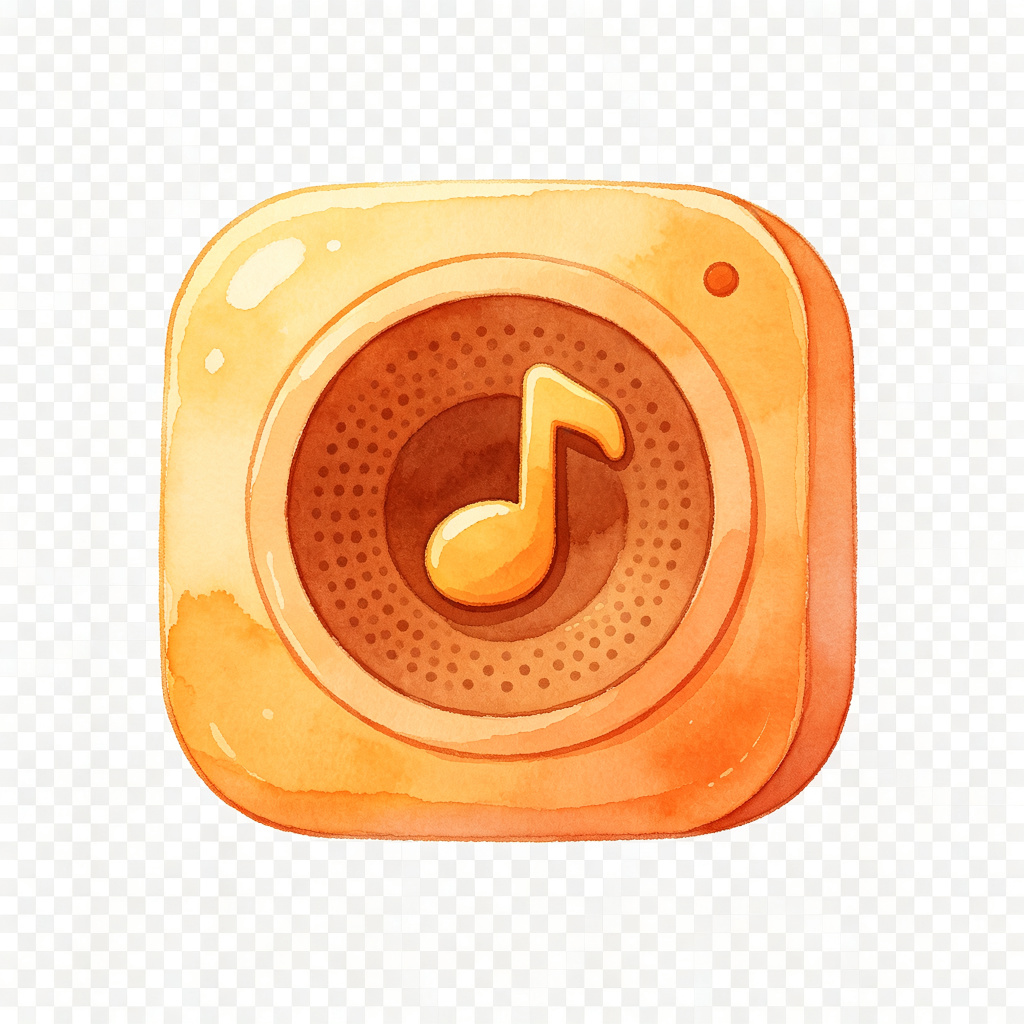
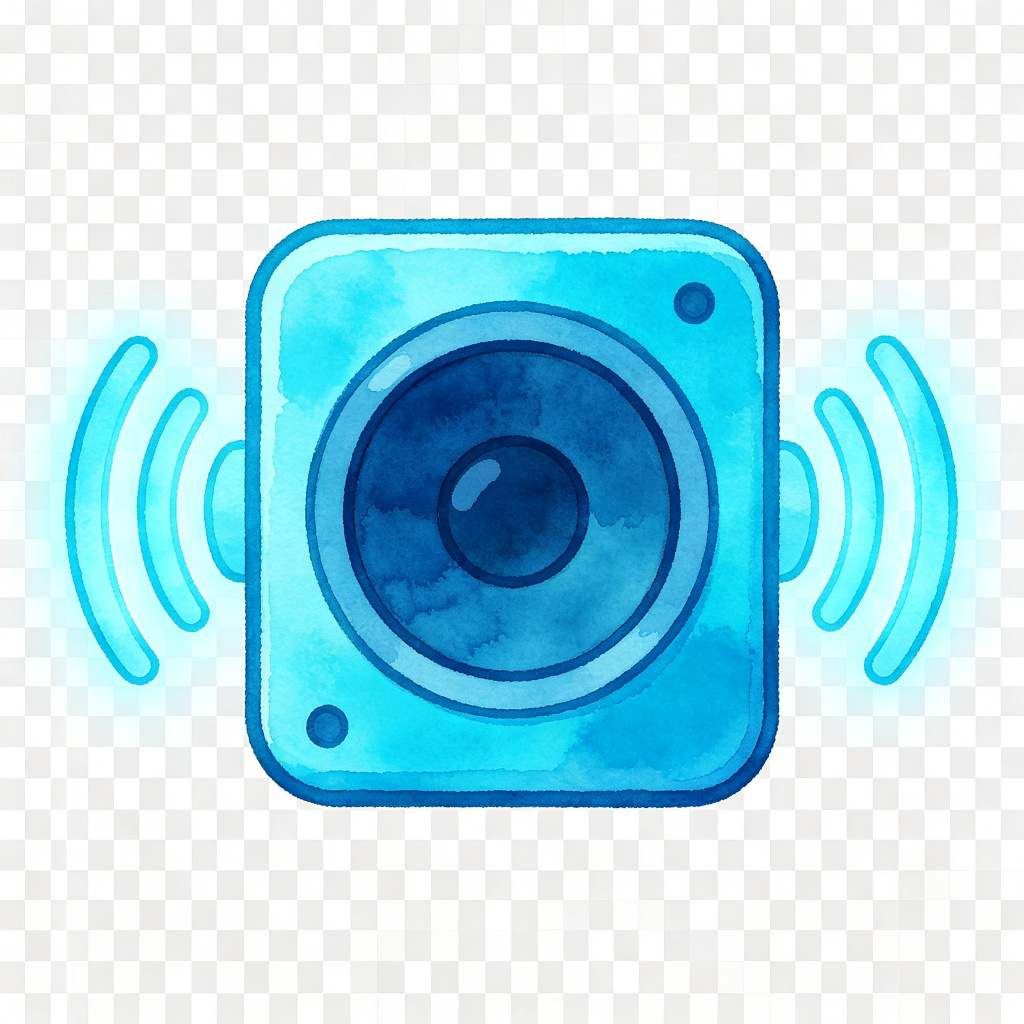
飞行模式重写/热气球位置/声音图标/湖泊液态光效
- 重写休闲模式飞行：切换式悬浮，按一次升空固定高度只能左右移动，再按一次落地，飞行中不加分，F键快捷键
- 修复入坑/专家模式热气球太高够不着：HookedMode y>=340, ExpertMode y>=600
- 重新生成更鲜明的声音按钮图标：亮青色扬声器+两侧音波符号
- 重设计湖泊为液态流体脉冲光效：四层渐变水体、脉冲发光边缘、三层波纹、波光闪烁、水下光柱、上升气泡、水底柔光
- 审视素材：核心素材均已使用最新版
- 版本号更新至 20260828l

diff --git a/dino.js b/dino.js
@@ -7,7 +7,7 @@
 
 /* ─── Constants ─── */
 const W = 1600, H = 900;
-const DINO_URL = 'images/小恐龙-removebg-preview.png?v=20260828c';
+const DINO_URL = 'images/小恐龙-removebg-preview.png?v=20260828l';
 const BGM_URL = 'bgm/white-cat.mp3';
 const GROUND_Y = 820;
 const GRAVITY = 0.5;
@@ -247,6 +247,7 @@ function onKeyDown(e) {
   if (e.code === 'ArrowUp' || e.code === 'KeyW') { moveY = -1; if (handler && handler.onJump) handler.onJump(); }
   if (e.code === 'ArrowDown' || e.code === 'KeyS') moveY = 1;
   if (e.code === 'Space' && handler && handler.onJump) { e.preventDefault(); handler.onJump(); }
+  if (e.code === 'KeyF' && gameState === 'playing' && mode === 'casual' && handler && handler.activateFlight) { handler.activateFlight(); }
   if (e.code === 'Escape' && gameState === 'playing') pauseGame();
   else if (e.code === 'Escape' && gameState === 'paused') resumeGame();
 }
@@ -992,6 +993,99 @@ function applyShake() {
   }
 }
 
+/* ─── 液态流体脉冲光效湖泊 ─── */
+function drawPond(x, y, w, h, frame) {
+  ctx.save();
+  // 脉冲因子：周期性亮度变化
+  const pulse = 0.82 + 0.18 * Math.sin(frame * 0.035);
+
+  // 1. 水体主体（四层渐变，液态深邃感）
+  const waterGrad = ctx.createLinearGradient(0, y, 0, y + h);
+  waterGrad.addColorStop(0, `rgba(130, 210, 255, ${0.78 * pulse})`);
+  waterGrad.addColorStop(0.25, `rgba(70, 170, 235, ${0.82 * pulse})`);
+  waterGrad.addColorStop(0.6, `rgba(35, 120, 205, ${0.88 * pulse})`);
+  waterGrad.addColorStop(1, `rgba(18, 75, 155, ${0.92 * pulse})`);
+  ctx.fillStyle = waterGrad;
+  ctx.fillRect(x, y, w, h);
+
+  // 2. 水面脉冲发光边缘（光晕）
+  const glowGrad = ctx.createLinearGradient(0, y - 10, 0, y + 14);
+  glowGrad.addColorStop(0, 'rgba(160, 230, 255, 0)');
+  glowGrad.addColorStop(0.5, `rgba(160, 230, 255, ${0.45 * pulse})`);
+  glowGrad.addColorStop(1, 'rgba(160, 230, 255, 0)');
+  ctx.fillStyle = glowGrad;
+  ctx.fillRect(x - 4, y - 10, w + 8, 24);
+
+  // 3. 三层波纹（不同频率/振幅/速度，液态流体感）
+  for (let layer = 0; layer < 3; layer++) {
+    const amp = 1.8 + layer * 1.4;
+    const freq = 0.035 + layer * 0.018;
+    const speed = 1.8 + layer * 0.7;
+    const alpha = 0.55 - layer * 0.14;
+    ctx.strokeStyle = `rgba(255, 255, 255, ${alpha * pulse})`;
+    ctx.lineWidth = 1.5;
+    ctx.beginPath();
+    for (let wx = x; wx <= x + w; wx += 3) {
+      const wy = y + 2 + layer * 4 + Math.sin((wx + frame * speed) * freq) * amp;
+      if (wx === x) ctx.moveTo(wx, wy);
+      else ctx.lineTo(wx, wy);
+    }
+    ctx.stroke();
+  }
+
+  // 4. 波光粼粼高光闪烁（确定性伪随机）
+  const sparkleCount = Math.floor(w / 28);
+  for (let i = 0; i < sparkleCount; i++) {
+    const sx = x + 8 + ((i * 53 + frame * 0.4) % (w - 16));
+    const sy = y + 5 + ((i * 29) % 18);
+    const twinkle = 0.5 + 0.5 * Math.sin(frame * 0.12 + i * 1.9);
+    ctx.fillStyle = `rgba(255, 255, 255, ${0.65 * twinkle * pulse})`;
+    ctx.beginPath();
+    ctx.ellipse(sx, sy, 2.5 + twinkle * 2, 0.8, 0, 0, Math.PI * 2);
+    ctx.fill();
+  }
+
+  // 5. 水下脉冲光柱（三道，缓慢摆动）
+  for (let i = 0; i < 3; i++) {
+    const lx = x + w * (0.18 + i * 0.32) + Math.sin(frame * 0.018 + i * 1.2) * 25;
+    const beamGrad = ctx.createLinearGradient(lx, y, lx, y + h);
+    beamGrad.addColorStop(0, `rgba(190, 235, 255, ${0.18 * pulse})`);
+    beamGrad.addColorStop(0.6, `rgba(190, 235, 255, ${0.06 * pulse})`);
+    beamGrad.addColorStop(1, 'rgba(190, 235, 255, 0)');
+    ctx.fillStyle = beamGrad;
+    ctx.beginPath();
+    ctx.moveTo(lx - 18, y);
+    ctx.lineTo(lx + 18, y);
+    ctx.lineTo(lx + 45, y + h);
+    ctx.lineTo(lx - 45, y + h);
+    ctx.closePath();
+    ctx.fill();
+  }
+
+  // 6. 上升气泡（确定性循环）
+  for (let i = 0; i < 6; i++) {
+    const bx = x + 12 + ((i * 71 + frame * 0.25) % (w - 24));
+    const by = y + h - ((frame * 0.7 + i * 35) % h);
+    const br = 1.2 + (i % 3) * 0.8;
+    ctx.fillStyle = `rgba(210, 245, 255, ${0.45 * pulse})`;
+    ctx.beginPath();
+    ctx.arc(bx, by, br, 0, Math.PI * 2);
+    ctx.fill();
+    ctx.strokeStyle = `rgba(255, 255, 255, ${0.65 * pulse})`;
+    ctx.lineWidth = 0.6;
+    ctx.stroke();
+  }
+
+  // 7. 水底柔光反射
+  const bottomGlow = ctx.createRadialGradient(x + w / 2, y + h, 5, x + w / 2, y + h, w * 0.6);
+  bottomGlow.addColorStop(0, `rgba(100, 180, 255, ${0.15 * pulse})`);
+  bottomGlow.addColorStop(1, 'rgba(100, 180, 255, 0)');
+  ctx.fillStyle = bottomGlow;
+  ctx.fillRect(x, y + h * 0.5, w, h * 0.5);
+
+  ctx.restore();
+}
+
 /* ─── Shared clouds — 柔和棉花糖云 ─── */
 function drawClouds(offset, alpha) {
   ctx.save();
@@ -1475,7 +1569,7 @@ const CasualMode = {
     this.obstacles = []; this.tomatoes = [];
     this.speed = this.baseSpeed = 4;
     this.spawnTimer = 90; this.tomTimer = 200; this.frame = 0;
-    this.flying = false; this.flyTimer = 0; this.flyCD = 0;
+    this.flying = false; this.flyTargetY = 180;
     this.cameraX = 0; this.gameOver = false; this.won = false;
     this.vx = 0; this.jumpHeld = false;
     score = 0; resetShields();
@@ -1498,13 +1592,24 @@ const CasualMode = {
   onJumpRelease() { this.jumpHeld = false; },
 
   activateFlight() {
-    if (this.flyCD > 0 || this.flying || this.gameOver) return;
-    this.flying = true; this.flyTimer = 300; this.flyCD = 480;
-    this.dino.jumping = false; this.dino.vy = 0;
-    // 视觉反馈：飞行激活粒子效果
-    spawnParticles(this.dino.x + this.dino.w / 2, this.dino.y + this.dino.h / 2, '#1989fa', 15);
-    spawnPopup(this.dino.x + this.dino.w / 2, this.dino.y - 10, t('flight'), '#1989fa');
-    playSfx('coin');
+    if (this.gameOver) return;
+    if (this.flying) {
+      // 取消飞行：掉到地面
+      this.flying = false;
+      this.dino.jumping = true;
+      this.dino.vy = 3;
+      spawnParticles(this.dino.x + this.dino.w / 2, this.dino.y + this.dino.h / 2, '#1989fa', 10);
+      playSfx('coin');
+    } else {
+      // 进入飞行：升到固定高度悬浮，只能左右移动
+      this.flying = true;
+      this.dino.jumping = false;
+      this.dino.vy = 0;
+      this.flyTargetY = 180; // 悬浮在上空的目标高度
+      spawnParticles(this.dino.x + this.dino.w / 2, this.dino.y + this.dino.h / 2, '#1989fa', 18);
+      spawnPopup(this.dino.x + this.dino.w / 2, this.dino.y - 10, t('flight'), '#1989fa');
+      playSfx('coin');
+    }
   },
 
   spawnObstacle() {
@@ -1529,13 +1634,16 @@ const CasualMode = {
     this.speed = this.baseSpeed + this.frame * 0.0008;
     this.bgOffset = (this.bgOffset + this.speed) % 1600;
 
-    // Flight
+    // Flight — 切换式悬浮：固定在上空，只能左右移动，再按一次落地
     if (this.flying) {
-      this.flyTimer--;
-      if (moveY === -1 || keys['ArrowUp'] || keys['KeyW']) this.dino.y -= 5;
-      if (moveY === 1 || keys['ArrowDown'] || keys['KeyS']) this.dino.y += 5;
-      this.dino.y = Math.max(100, Math.min(GROUND_Y - this.dino.h, this.dino.y));
-      if (this.flyTimer <= 0) { this.flying = false; this.dino.jumping = true; this.dino.vy = -5; }
+      // 平滑升到悬浮目标高度
+      const targetY = this.flyTargetY || 180;
+      this.dino.y += (targetY - this.dino.y) * 0.12;
+      if (Math.abs(this.dino.y - targetY) < 0.5) this.dino.y = targetY;
+      this.dino.vy = 0;
+      this.dino.jumping = false;
+      // 悬浮时轻微上下浮动效果
+      this.dino.y += Math.sin(this.frame * 0.06) * 1.5;
     } else {
       // Variable jump gravity (Mario-style): lower gravity while ascending and holding jump
       // 调低重力增强滞空感，按住跳跃键时上升更轻盈
@@ -1549,8 +1657,10 @@ const CasualMode = {
         this.dino.vy = 0; this.dino.jumping = false;
       }
     }
-    if (this.flyCD > 0) this.flyCD--;
-    flightBtn.style.opacity = this.flyCD > 0 ? '0.4' : '1';
+    // 飞行按钮状态反馈：飞行中高亮
+    flightBtn.style.opacity = this.flying ? '1' : '0.85';
+    flightBtn.style.transform = this.flying ? 'scale(1.15)' : 'scale(1)';
+    flightBtn.style.boxShadow = this.flying ? '0 0 16px rgba(25,137,250,0.6)' : 'none';
 
     // Smooth horizontal movement (acceleration/deceleration)
     const targetVx = moveX * 5;
@@ -1584,7 +1694,7 @@ const CasualMode = {
       const oBox = { x: o.x + 8, y: o.y + 4, w: o.w - 16, h: o.h - 8 };
       if (!o.passed && o.x + o.w < this.dino.x) {
         o.passed = true;
-        if (o.type === 'hedgehog') {
+        if (o.type === 'hedgehog' && !this.flying) {
           score++; scoreCurrent.textContent = score;
           spawnPopup(o.x + o.w / 2, o.y - 10, t('score_pop'), '#07c160');
           spawnParticles(o.x + o.w / 2, o.y + o.h / 2, '#07c160', 6);
@@ -1919,7 +2029,7 @@ const HookedMode = {
     this.enemies = L[4].map(e => ({ x: e[0], y: GROUND_Y - (e[0] === 'koopa' ? 56 : 54), type: e[1], w: e[1] === 'koopa' ? 60 : 56, h: e[1] === 'koopa' ? 56 : 54, range: e[2], startX: e[0], dir: 1, frame: 0 })).filter(e => e.startX > 400);
     this.bats = L[5].map(b => ({ x: b[0], y: b[1], w: 72, h: 54, range: b[2], startX: b[0], dir: 1, frame: 0 })).filter(b => b.startX > 400);
     this.tomatoes = L[6].map(t => ({ x: t[0], y: t[1], size: 50, collected: false, frame: 0 }));
-    this.balloon = { x: L[7][0], y: L[7][1] };
+    this.balloon = { x: L[7][0], y: Math.max(340, L[7][1]) };
     this.blocks = (L[8] || []).map(b => ({ x: b[0], y: b[1], type: b[2], count: b[3] || 1, size: 48, used: false, hitFrame: 0 }));
     this.ponds = (L[9] || []).map(p => ({ x: p[0], w: p[1], y: GROUND_Y - 8 }));
     // Piranha plants from pipes
@@ -2140,24 +2250,8 @@ const HookedMode = {
       ctx.fill();
     }
 
-    // Ponds (water)
-    this.ponds.forEach(p => {
-      const wg = ctx.createLinearGradient(0, p.y, 0, GROUND_Y + 40);
-      wg.addColorStop(0, 'rgba(100, 181, 246, 0.7)');
-      wg.addColorStop(1, 'rgba(30, 136, 229, 0.8)');
-      ctx.fillStyle = wg;
-      ctx.fillRect(p.x - cam, p.y, p.w, GROUND_Y + 40 - p.y);
-      // Water surface ripple
-      ctx.strokeStyle = 'rgba(255,255,255,0.4)';
-      ctx.lineWidth = 2;
-      ctx.beginPath();
-      for (let wx = p.x; wx < p.x + p.w; wx += 8) {
-        const wy = p.y + Math.sin((wx + this.frame * 2) * 0.05) * 2;
-        if (wx === p.x) ctx.moveTo(wx - cam, wy);
-        else ctx.lineTo(wx - cam, wy);
-      }
-      ctx.stroke();
-    });
+    // Ponds (液态流体脉冲光效)
+    this.ponds.forEach(p => drawPond(p.x - cam, p.y, p.w, GROUND_Y + 40 - p.y, this.frame));
 
     // Ground (varied height)
     this.ground.forEach(g => drawGrassPlatform(g.x - cam, g.y, g.w, GROUND_Y + 60 - g.y));
@@ -2238,7 +2332,7 @@ const ExpertMode = {
     this.enemies = L[3].map(e => ({ x: e[0], y: e[1], type: e[2], w: e[2] === 'koopa' ? 56 : 52, h: e[2] === 'koopa' ? 52 : 50, range: e[3], startX: e[0], dir: 1, frame: 0, layerY: e[1] })).filter(e => e.startX > 400);
     this.bats = L[4].map(b => ({ x: b[0], y: b[1], w: 68, h: 50, range: b[2], startX: b[0], dir: 1, frame: 0 })).filter(b => b.startX > 400);
     this.tomatoes = L[5].map(t => ({ x: t[0], y: t[1], size: 46, collected: false, frame: 0 }));
-    this.balloon = { x: L[6][0], y: L[6][1] };
+    this.balloon = { x: L[6][0], y: Math.max(600, L[6][1]) };
     this.blocks = (L[7] || []).map(b => ({ x: b[0], y: b[1], type: b[2], count: b[3] || 1, size: 44, used: false, hitFrame: 0 }));
     this.elevators = (L[8] || []).map(e => ({ x: e[0], y: e[1], y0: e[1], y1: e[2], w: e[3], h: 14, state: 'idle', timer: 0 }));
     this.piranhas = this.pipes.filter(p => p.hasPiranha).map(p => ({ x: p.x, y: p.y, w: 50, h: 70, emerge: 0, frame: 0 }));
@@ -3098,18 +3192,18 @@ function init() {
   let loadDone = false;
   const allImgs = [
     { img: dinoImg, url: DINO_URL },
-    { img: hedgehogImg, url: 'images/刺猬-removebg-preview.png?v=20260828c' },
-    { img: batImg, url: 'images/bat.png?v=20260828c' },
-    { img: tomatoImg, url: 'images/tomato.png?v=20260828c' },
-    { img: balloonImg, url: 'images/balloon.png?v=20260828c' },
-    { img: platformImg, url: 'images/platform.png?v=20260828c' },
-    { img: portalImg, url: 'images/portal.png?v=20260828c' },
-    { img: islandImg, url: 'images/island.png?v=20260828c' },
-    { img: piranhaImg, url: 'images/piranha.png?v=20260828c' },
-    { img: koopaImg, url: 'images/koopa.png?v=20260828c' },
-    { img: hedgehogNewImg, url: 'images/hedgehog_new.png?v=20260828c' },
-    { img: bgStartImg, url: 'images/bg_start.png?v=20260828c' },
-    { img: bgCasualImg, url: 'images/bg_casual.png?v=20260828c' },
+    { img: hedgehogImg, url: 'images/刺猬-removebg-preview.png?v=20260828l' },
+    { img: batImg, url: 'images/bat.png?v=20260828l' },
+    { img: tomatoImg, url: 'images/tomato.png?v=20260828l' },
+    { img: balloonImg, url: 'images/balloon.png?v=20260828l' },
+    { img: platformImg, url: 'images/platform.png?v=20260828l' },
+    { img: portalImg, url: 'images/portal.png?v=20260828l' },
+    { img: islandImg, url: 'images/island.png?v=20260828l' },
+    { img: piranhaImg, url: 'images/piranha.png?v=20260828l' },
+    { img: koopaImg, url: 'images/koopa.png?v=20260828l' },
+    { img: hedgehogNewImg, url: 'images/hedgehog_new.png?v=20260828l' },
+    { img: bgStartImg, url: 'images/bg_start.png?v=20260828l' },
+    { img: bgCasualImg, url: 'images/bg_casual.png?v=20260828l' },
   ];
 
   let loaded = 0;

diff --git a/index.html b/index.html
@@ -9,7 +9,7 @@
   <link rel="preconnect" href="https://fonts.googleapis.com">
   <link rel="preconnect" href="https://fonts.gstatic.com" crossorigin>
   <link href="https://fonts.googleapis.com/css2?family=ZCOOL+KuaiLe&family=Fredoka:wght@400;500;600;700&display=swap" rel="stylesheet">
-  <link rel="stylesheet" href="dino.css?v=20260828k">
+  <link rel="stylesheet" href="dino.css?v=20260828l">
   <link rel="icon" type="image/png" href="images/小恐龙-removebg-preview.png">
 </head>
 <body>
@@ -55,13 +55,13 @@
   <!-- Top-center controls -->
   <div id="top-controls">
     <button id="sound-toggle" class="top-btn" title="音乐开关" aria-label="音乐开关">
-      <img src="images/icon_sound.png?v=20260828j" alt="声音" class="top-btn-icon">
+      <img src="images/icon_sound.png?v=20260828l" alt="声音" class="top-btn-icon">
     </button>
     <button id="btn-flight" class="top-btn" title="飞行" aria-label="飞行" hidden>
-      <img src="images/icon_flight.png?v=20260828j" alt="飞行" class="top-btn-icon">
+      <img src="images/icon_flight.png?v=20260828l" alt="飞行" class="top-btn-icon">
     </button>
     <button id="btn-pause" class="top-btn" title="暂停" aria-label="暂停">
-      <img src="images/icon_pause.png?v=20260828j" alt="暂停" class="top-btn-icon">
+      <img src="images/icon_pause.png?v=20260828l" alt="暂停" class="top-btn-icon">
     </button>
   </div>
 
@@ -225,6 +225,6 @@
   <!-- Confetti canvas (above all overlays) -->
   <canvas id="confetti-canvas"></canvas>
 
-  <script src="dino.js?v=20260828k"></script>
+  <script src="dino.js?v=20260828l"></script>
 </body>
 </html>
